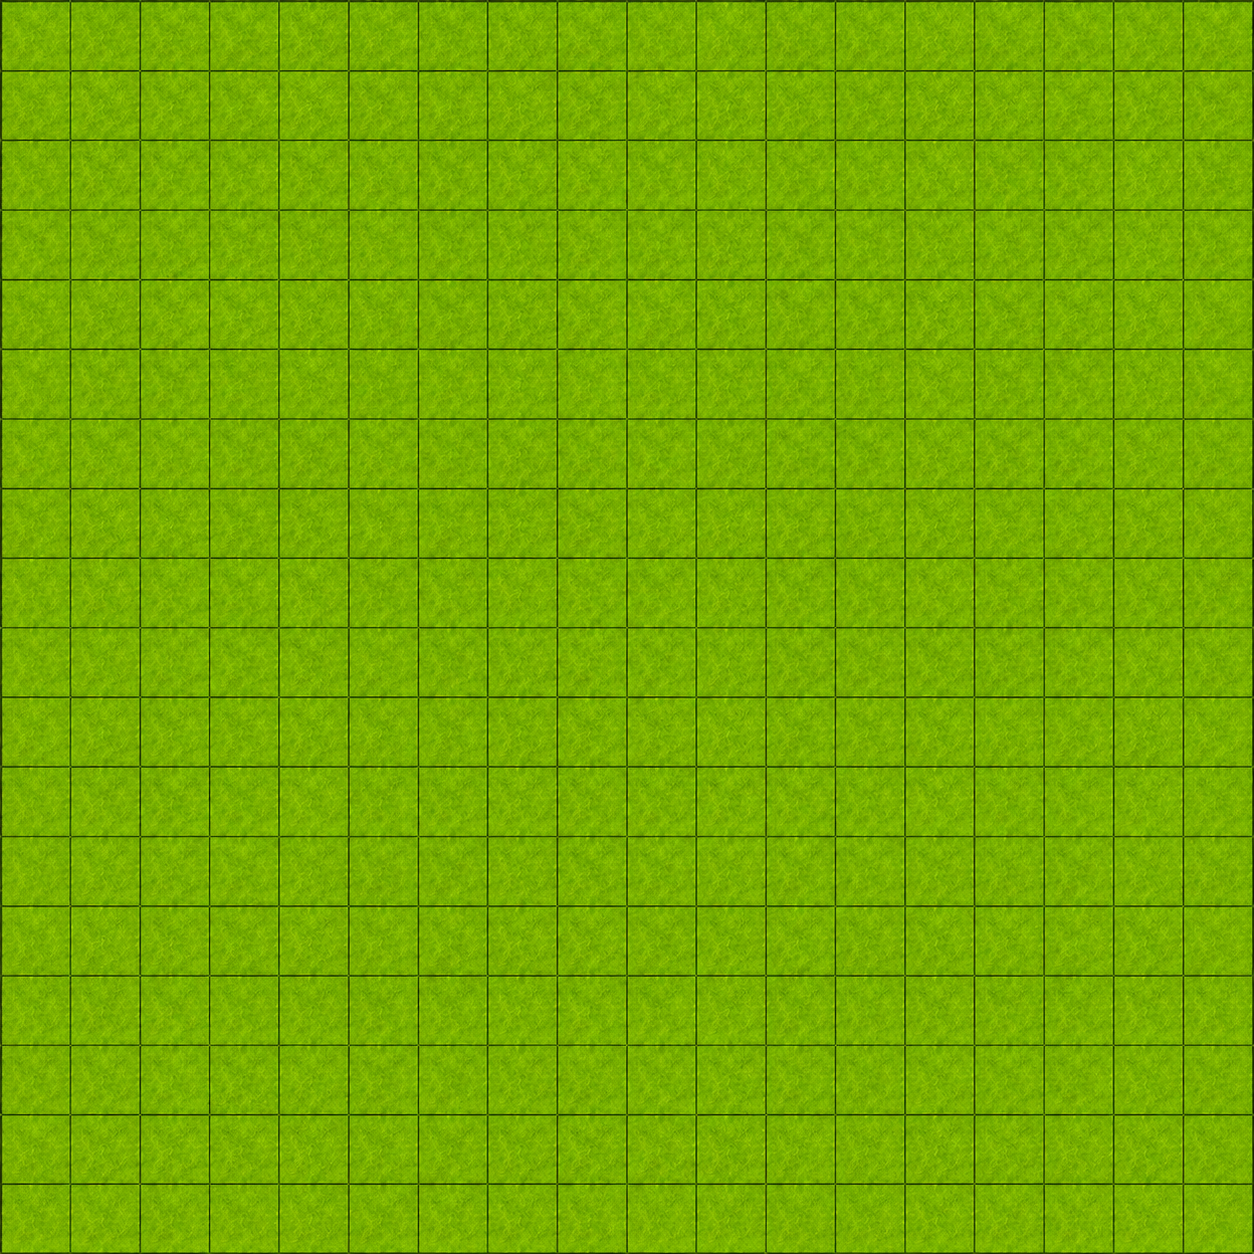
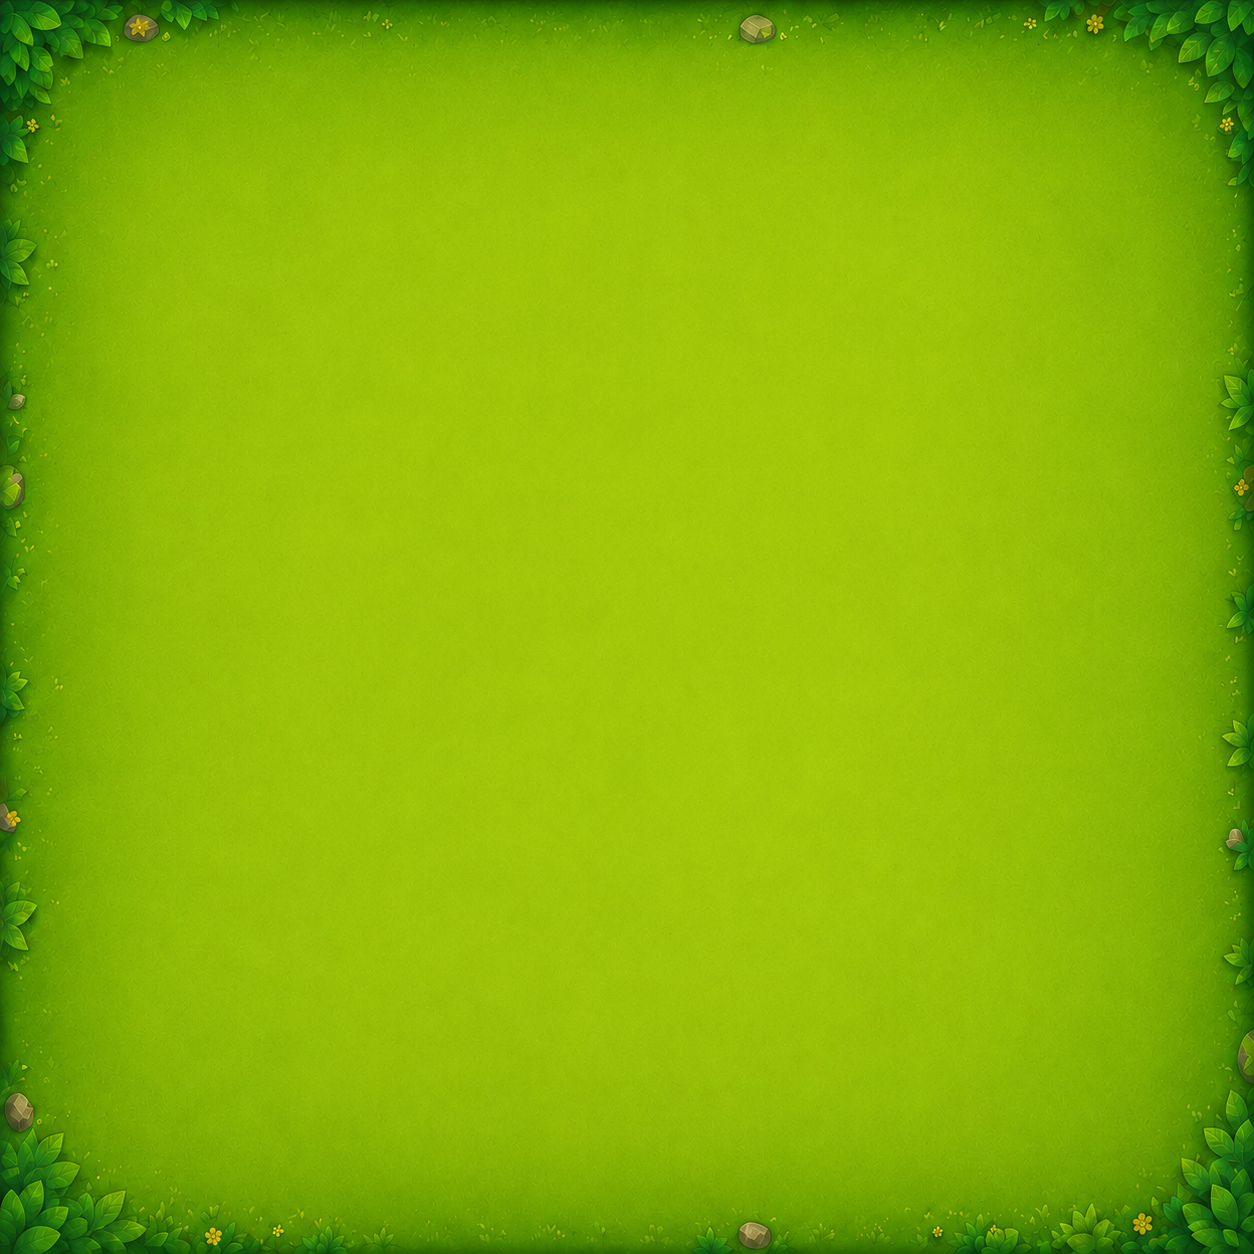
feat(game): add optional grid system for easy difficulty

diff --git a/game.py b/game.py
@@ -51,6 +51,12 @@ class snake:
         self.base_speed = get_speed(self.difficulty)
         self.speed = self.base_speed
 
+        self.cell_size = 20
+        if self.difficulty == "easy":
+            self.grid_mode = True
+        else:
+            self.grid_mode = False
+
         self.secret_map = False
         self.moving_obstacles_enabled = False
 
@@ -163,11 +169,21 @@ class snake:
 
         self.bg = self.canvas.create_image(0, 0, image=self.bg_photo, anchor="nw")
 
+        if self.grid_mode:
+            self.draw_grid()
+
         self.obstacle_objects = []
         #obstacle_objects = sichtbare Canvas-Objekte (Grafik/Bewegung)
         for x, y in self.obstacles:
             obj = self.canvas.create_rectangle(x, y, x + 20, y + 20,fill="gray")
             self.obstacle_objects.append(obj)
+
+    def draw_grid(self):
+        for x in range(0, 400, self.cell_size):
+            self.canvas.create_line(x, 0, x, 400, fill="#1f2a1f")
+
+        for y in range(0, 400, self.cell_size):
+            self.canvas.create_line(0, y, 400, y, fill="#1f2a1f")
 
 
     # steuerung
